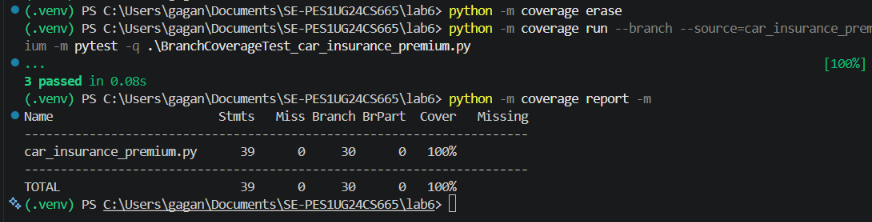
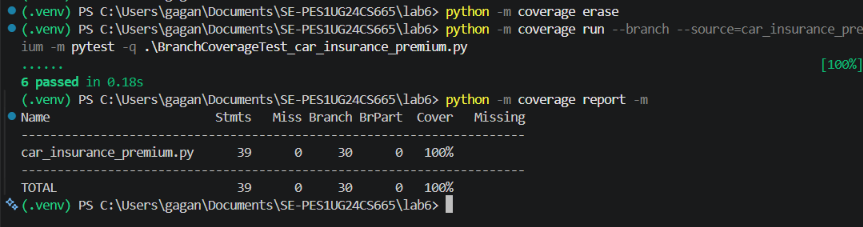
Add branch coverage boundary tests

diff --git a/lab6/BranchCoverageTest_car_insurance_premium.py b/lab6/BranchCoverageTest_car_insurance_premium.py
@@ -36,3 +36,19 @@ def test_claim_payout():
     assert claim_payout(10, 100, 10, False) == 0
     assert claim_payout(70, 100, 10, False) == 60
     assert claim_payout(200, 100, 10, False) == 100
+
+def test_annual_premium_boundary_cases():
+    assert annual_premium("sedan", 25, 2, False) == 12000
+    assert annual_premium("hatchback", 59, 1, True) == 7500
+    assert annual_premium("suv", 24, 2, True) == 18500
+
+
+def test_no_claim_bonus_boundary_cases():
+    assert no_claim_bonus(2) == 20
+    assert no_claim_bonus(4) == 35
+
+
+def test_claim_payout_boundary_cases():
+    assert claim_payout(11, 100, 10, False) == 1
+    assert claim_payout(10, 100, 11, False) == 0
+    assert claim_payout(150, 100, 50, False) == 100
